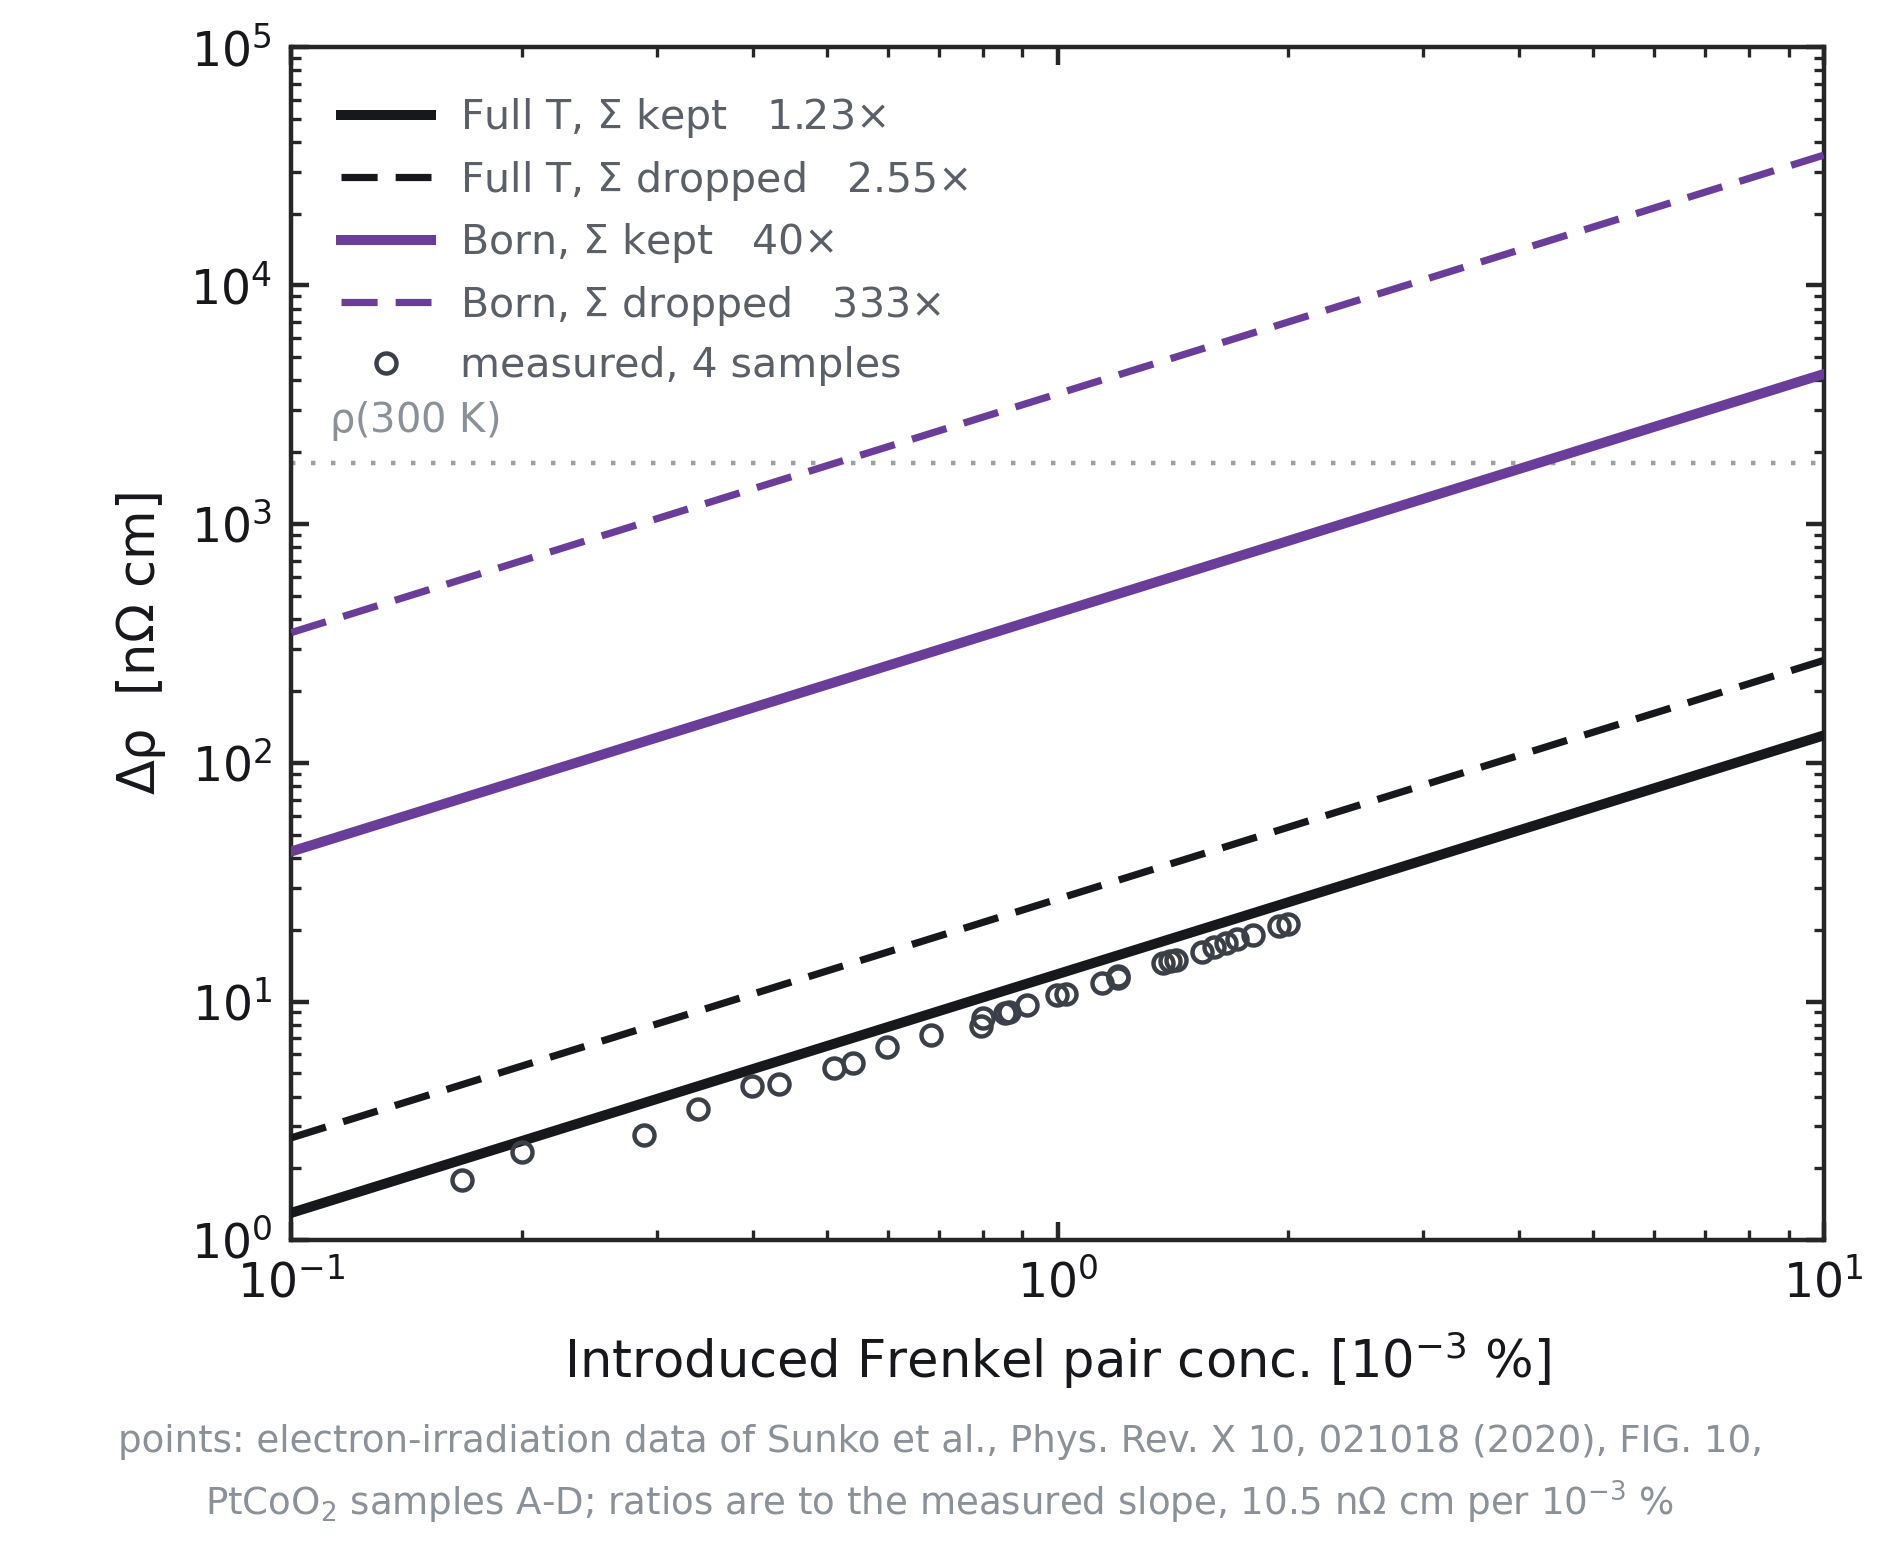
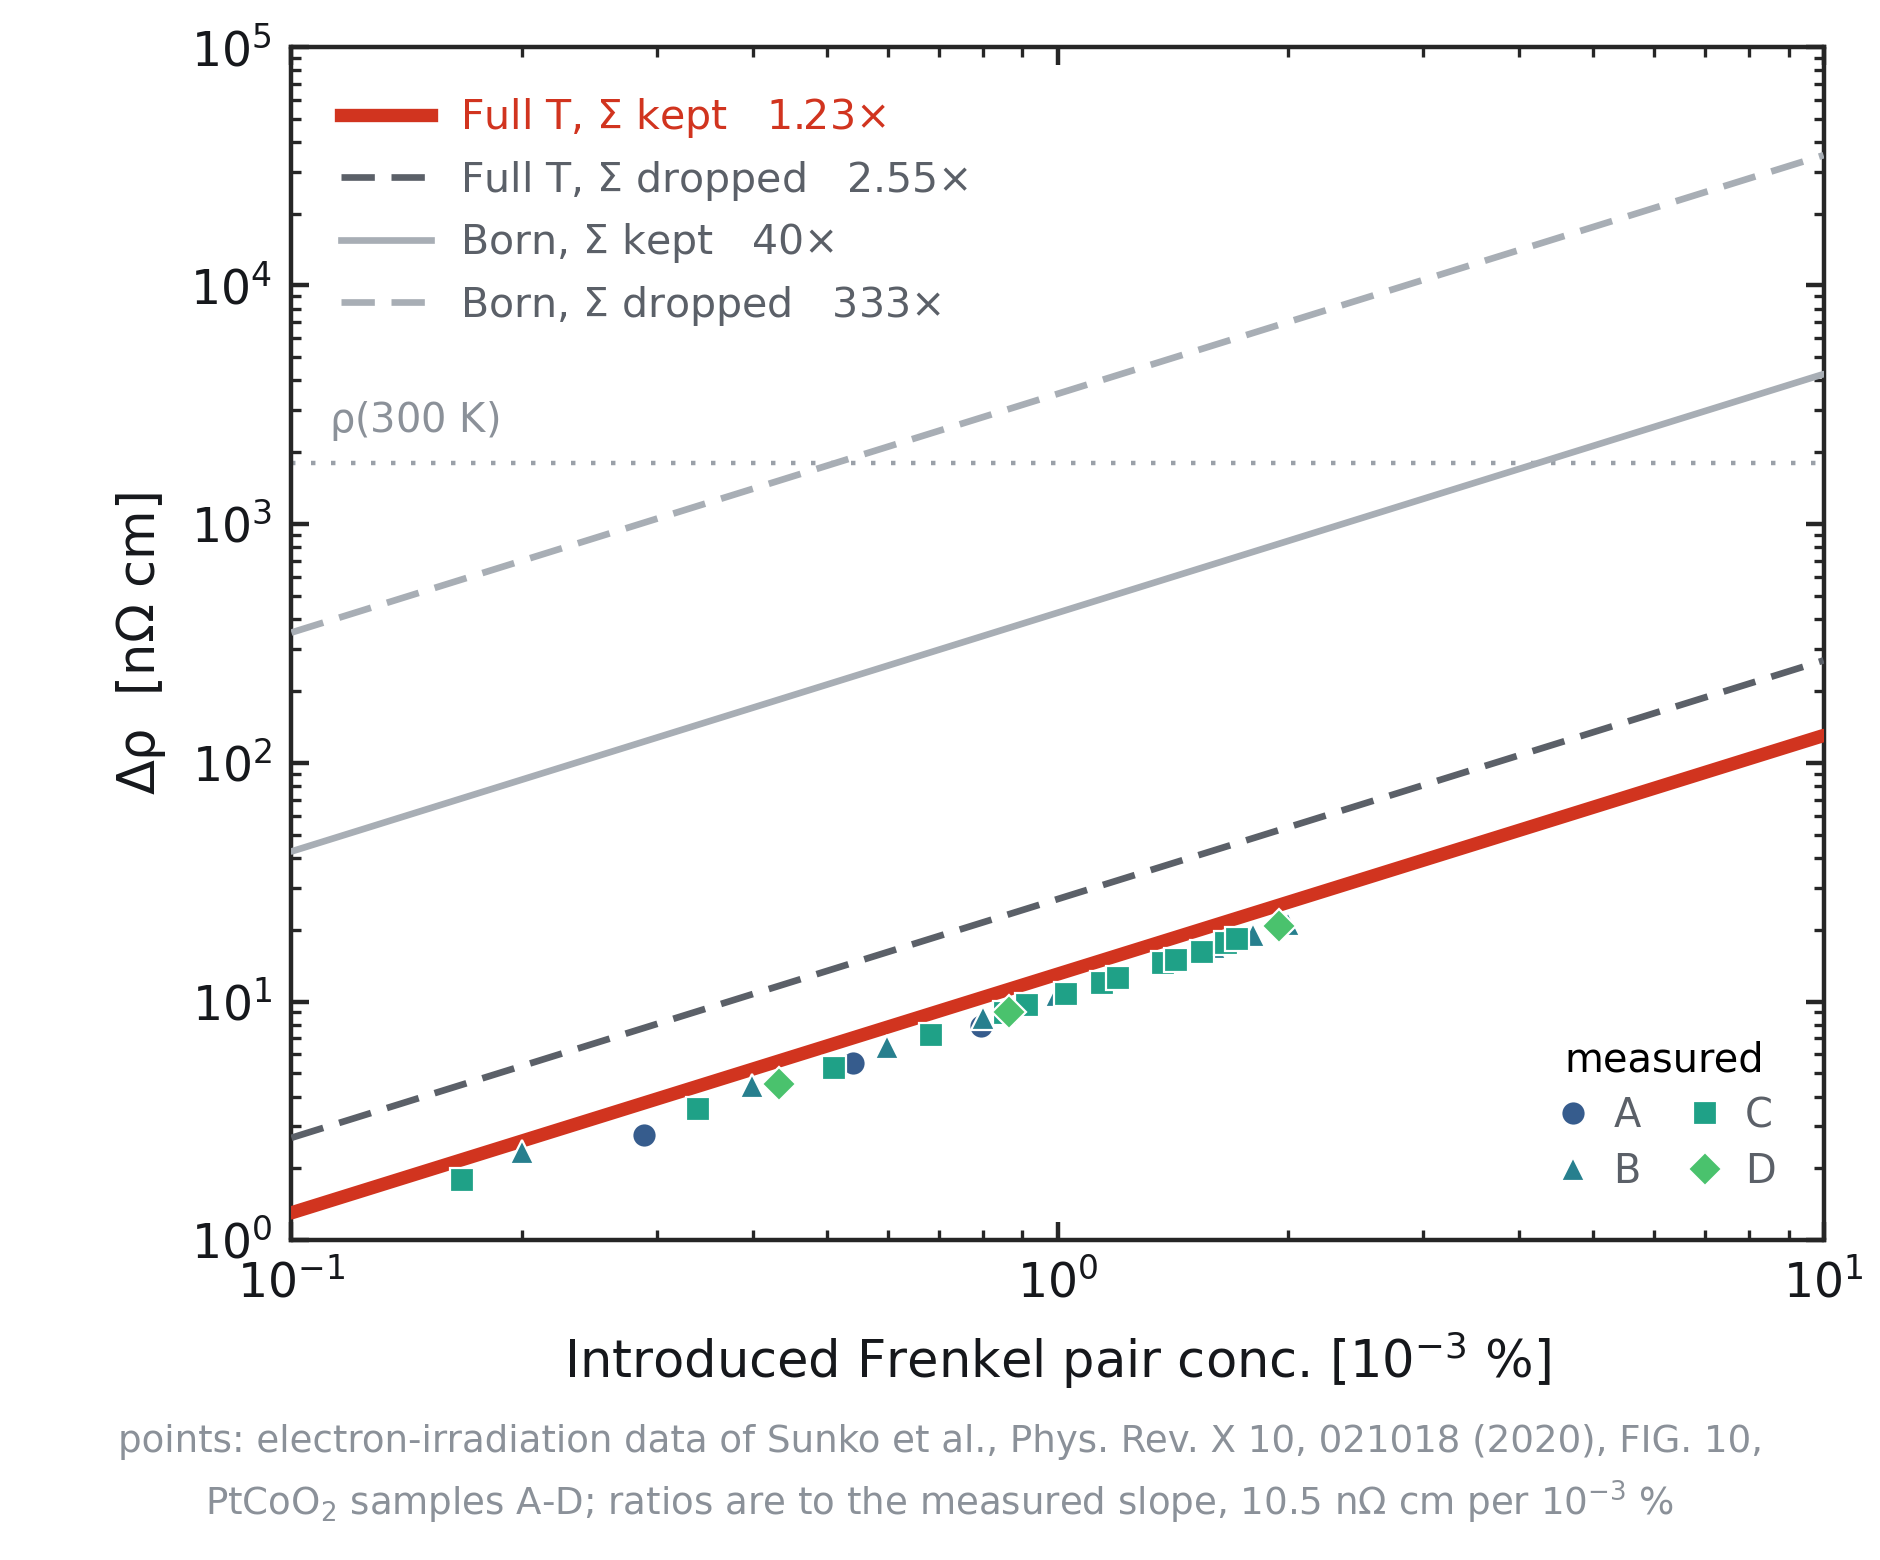
ptcoo2: restore per-sample markers and highlight the production curve
Two adjustments to the section-1 figure:

  * the 30 measured points go back to per-sample markers and colours as in the
    source figure -- A circle #365c8d, B triangle #277f8e, C square #1fa187,
    D diamond #4ac26d -- instead of one uniform open circle, with a compact
    A/B/C/D key in the lower-right corner (empty: nothing runs through x > 3,
    y < 10).

  * the production answer (full T-matrix, Sigma kept) is now the one line the
    eye finds first: saturated red #d1341f at lw 2.4, with its legend entry
    coloured to match. The colour is deliberately outside the blue-green range
    the samples occupy, so line and scatter never compete.

    Everything else recedes: full T with Sigma dropped goes dark grey #5b6068,
    and the two Born curves light grey #a8aeb5 -- Born being the level the
    figure exists to show failing. Solid still means Sigma kept, dashed
    dropped, so the four levels stay distinguishable by style as well as tone.

Numbers, axes and data are untouched (10546 nOhm.cm/%, 1.23x / 2.55x / 40x /
333x). Caption updated to describe the new colour coding.

diff --git a/docs/pages/ptcoo2.html b/docs/pages/ptcoo2.html
@@ -18,7 +18,7 @@
 <p>Measured slopes are from the electron-irradiation data of Sunko <em>et al.</em>, Phys. Rev. X <strong>10</strong>, 021018 (2020), FIG. 10, fitted through the origin. All four experimental benchmarks were recomputed from the digitised data and reproduce to better than $4\times10^{-5}$:</p>
 <div class="table-wrap"><table><thead><tr><th>material</th><th>points</th><th>recomputed</th><th>previously quoted</th><th>deviation</th></tr></thead><tbody><tr><td>PtCoO$_2$ (samples A+B+C+D)</td><td>30</td><td>10546.23</td><td>10546</td><td>$+0.002\%$</td></tr><tr><td>PdCoO$_2$ (A+B)</td><td>22</td><td>10654.19</td><td>10654</td><td>$+0.002\%$</td></tr><tr><td>PdCrO$_2$ (A)</td><td>8</td><td>10963.57</td><td>10964</td><td>$-0.004\%$</td></tr><tr><td>unitary limit</td><td>—</td><td>9750.21</td><td>9750</td><td>—</td></tr></tbody></table></div>
 <p><img src="../assets/ptcoo2_frenkel_prx.png" alt="PtCoO2 Frenkel-pair resistivity" style="max-width:100%;height:auto;display:block;margin:1.2rem auto;border:1px solid #d0d7de;border-radius:6px"></p>
-<p>All four theory levels against the 30 measured points of PtCoO$_2$ samples A–D, with the $\rho(300\,\mathrm{K})$ reference line. Black is the full $T$-matrix, purple is Born; solid keeps $\Sigma$, dashed drops it. The solid black line sits about 24% above the data, which is the 1.235× of the table; Born misses by one to two and a half decades.</p>
+<p>All four theory levels against the 30 measured points of PtCoO$_2$ samples A–D (each sample keeps its own marker and colour from the source figure), with the $\rho(300\,\mathrm{K})$ reference line. <strong>Red is the production answer</strong> — full $T$-matrix with $\Sigma$ kept. The other three are greyed back: dark grey for full $T$ with $\Sigma$ dropped, light grey for the two Born curves; solid keeps $\Sigma$, dashed drops it. The red line sits about 24% above the data, which is the 1.235× of the table, while Born misses by one to two and a half decades.</p>
 </section>
 <section id="sec-2"><h2>2. Structure: a fork that had to be settled first</h2>
 <p>The literature $c$ axis for PtCoO$_2$ is not unique, and this choice decides the Fermi-surface topology. Three independent lines of evidence select the same parameters:</p>

diff --git a/content/ptcoo2.md b/content/ptcoo2.md
@@ -39,10 +39,12 @@ benchmarks were recomputed from the digitised data and reproduce to better than 
 
 ![PtCoO2 Frenkel-pair resistivity](../assets/ptcoo2_frenkel_prx.png)
 
-All four theory levels against the 30 measured points of PtCoO$_2$ samples A–D, with the
-$\rho(300\,\mathrm{K})$ reference line. Black is the full $T$-matrix, purple is Born; solid keeps
-$\Sigma$, dashed drops it. The solid black line sits about 24% above the data, which is the
-1.235× of the table; Born misses by one to two and a half decades.
+All four theory levels against the 30 measured points of PtCoO$_2$ samples A–D (each sample keeps
+its own marker and colour from the source figure), with the $\rho(300\,\mathrm{K})$ reference line.
+**Red is the production answer** — full $T$-matrix with $\Sigma$ kept. The other three are greyed
+back: dark grey for full $T$ with $\Sigma$ dropped, light grey for the two Born curves; solid keeps
+$\Sigma$, dashed drops it. The red line sits about 24% above the data, which is the 1.235× of the
+table, while Born misses by one to two and a half decades.
 
 ## 2. Structure: a fork that had to be settled first
 
